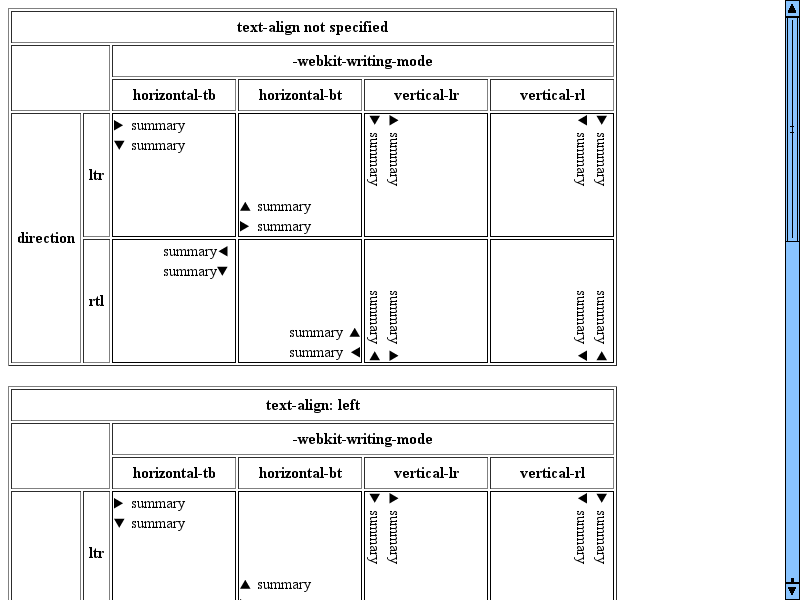
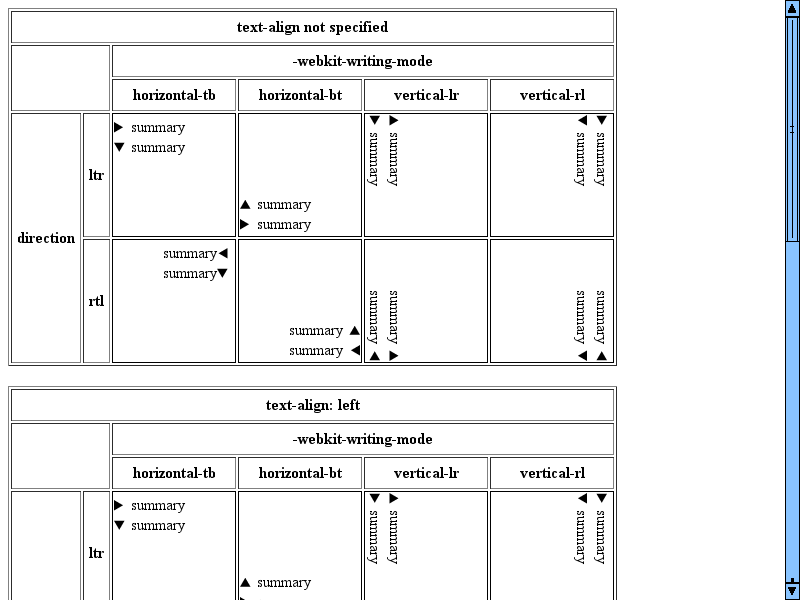
Percent height content should respect the fixed height of its containing cell
When an element in a cell has a percent height and the cell has a fixed height we
currently let the element ignore the height on the cell and instead let its content
determine the height of the cell (and the row).

Instead we should follow FF/Presto/Edge and the rendering agreed on the WG list
and let the element calculate itself as a percentage of its parent, the cell's
height.

https://lists.w3.org/Archives/Public/www-style/2015Mar/0101.html

BUG=465096

Review URL: https://codereview.chromium.org/992483002

git-svn-id: svn://svn.chromium.org/blink/trunk@192000 bbb929c8-8fbe-4397-9dbb-9b2b20218538

diff --git a/LayoutTests/fast/table/percent-height-content-in-fixed-height-cell.html b/LayoutTests/fast/table/percent-height-content-in-fixed-height-cell.html
@@ -1,0 +1,38 @@
+<!DOCTYPE html>
+<style>
+table {
+    width: 250px;
+}
+
+td {
+    width: 242px;
+}
+
+.cell-specified-height {
+    height: 202px;
+}
+
+.container {
+    height: 100%;
+    overflow-y: hidden;
+    border: 1px solid #ccc;
+}
+.content {
+    background-color: black;
+    height: 2000px;
+    width: 225px;
+}
+</style>
+<table>
+    <td class="cell-specified-height">
+        <div class="container" data-expected-height=200>
+            <div class="content"></div>
+        </div>
+    </td>
+</table>
+<script src="../../resources/check-layout.js"></script>
+<p> crbug.com/465096: Percent height content in a cell with a computed height should use the height of the cell. </p>
+<div id="output"></div>
+<script>
+checkLayout('.container', output);
+</script>

diff --git a/Source/core/layout/LayoutBox.cpp b/Source/core/layout/LayoutBox.cpp
@@ -2470,6 +2470,14 @@ LayoutUnit LayoutBox::computePercentageLogicalHeight(const Length& height) const
         availableHeight = containingBlockChild->containingBlockLogicalWidthForContent();
     } else if (hasOverrideContainingBlockLogicalHeight()) {
         availableHeight = overrideContainingBlockContentLogicalHeight();
+    } else if (cbstyle.logicalHeight().isFixed()) {
+        LayoutUnit contentBoxHeight = cb->adjustContentBoxLogicalHeightForBoxSizing(cbstyle.logicalHeight().value());
+        availableHeight = std::max(LayoutUnit(), cb->constrainContentBoxLogicalHeightByMinMax(contentBoxHeight - cb->scrollbarLogicalHeight(), -1));
+        if (cb->isTableCell()) {
+            includeBorderPadding = true;
+            // We're sizing content to the height from the cell's style so don't involve the intrinsic padding used to align the content.
+            availableHeight -= cb->computedCSSPaddingBefore() + cb->computedCSSPaddingAfter() + cb->borderBefore() + cb->borderAfter();
+        }
     } else if (cb->isTableCell()) {
         if (!skippedAutoHeightContainingBlock) {
             // Table cells violate what the CSS spec says to do with heights. Basically we
@@ -2491,9 +2499,6 @@ LayoutUnit LayoutBox::computePercentageLogicalHeight(const Length& height) const
             availableHeight = cb->overrideLogicalContentHeight();
             includeBorderPadding = true;
         }
-    } else if (cbstyle.logicalHeight().isFixed()) {
-        LayoutUnit contentBoxHeight = cb->adjustContentBoxLogicalHeightForBoxSizing(cbstyle.logicalHeight().value());
-        availableHeight = std::max(LayoutUnit(), cb->constrainContentBoxLogicalHeightByMinMax(contentBoxHeight - cb->scrollbarLogicalHeight(), -1));
     } else if (cbstyle.logicalHeight().isPercent() && !isOutOfFlowPositionedWithSpecifiedHeight) {
         // We need to recur and compute the percentage height for our containing block.
         LayoutUnit heightWithScrollbar = cb->computePercentageLogicalHeight(cbstyle.logicalHeight());
@@ -2526,10 +2531,8 @@ LayoutUnit LayoutBox::computePercentageLogicalHeight(const Length& height) const
 
     LayoutUnit result = valueForLength(height, availableHeight);
     if (includeBorderPadding) {
-        // FIXME: Table cells should default to box-sizing: border-box so we can avoid this hack.
-        // It is necessary to use the border-box to match WinIE's broken
-        // box model. This is essential for sizing inside
-        // table cells using percentage heights.
+        // TODO(rhogan) crbug.com/467378: Doing this for content inside tables cells is wrong, it should fill
+        // whatever height the cell makes available.
         result -= borderAndPaddingLogicalHeight();
         return std::max(LayoutUnit(), result);
     }
